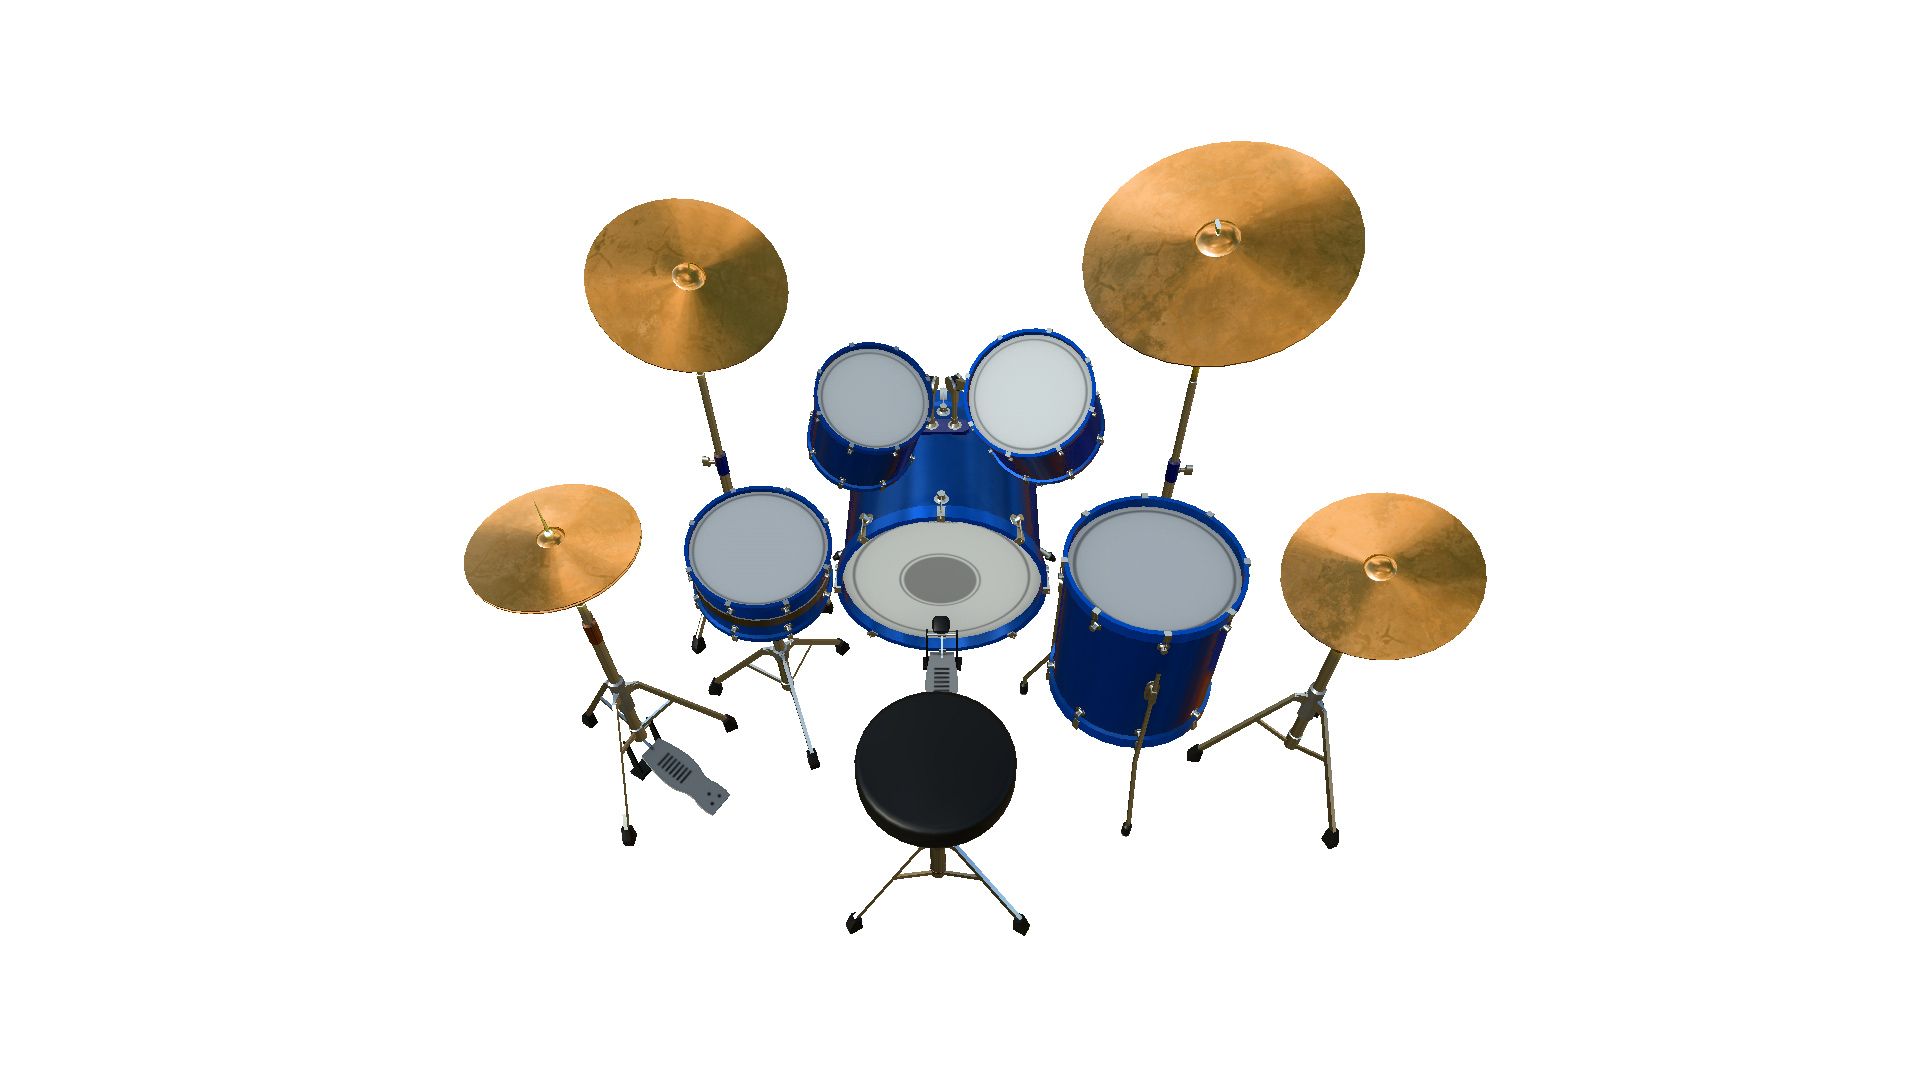
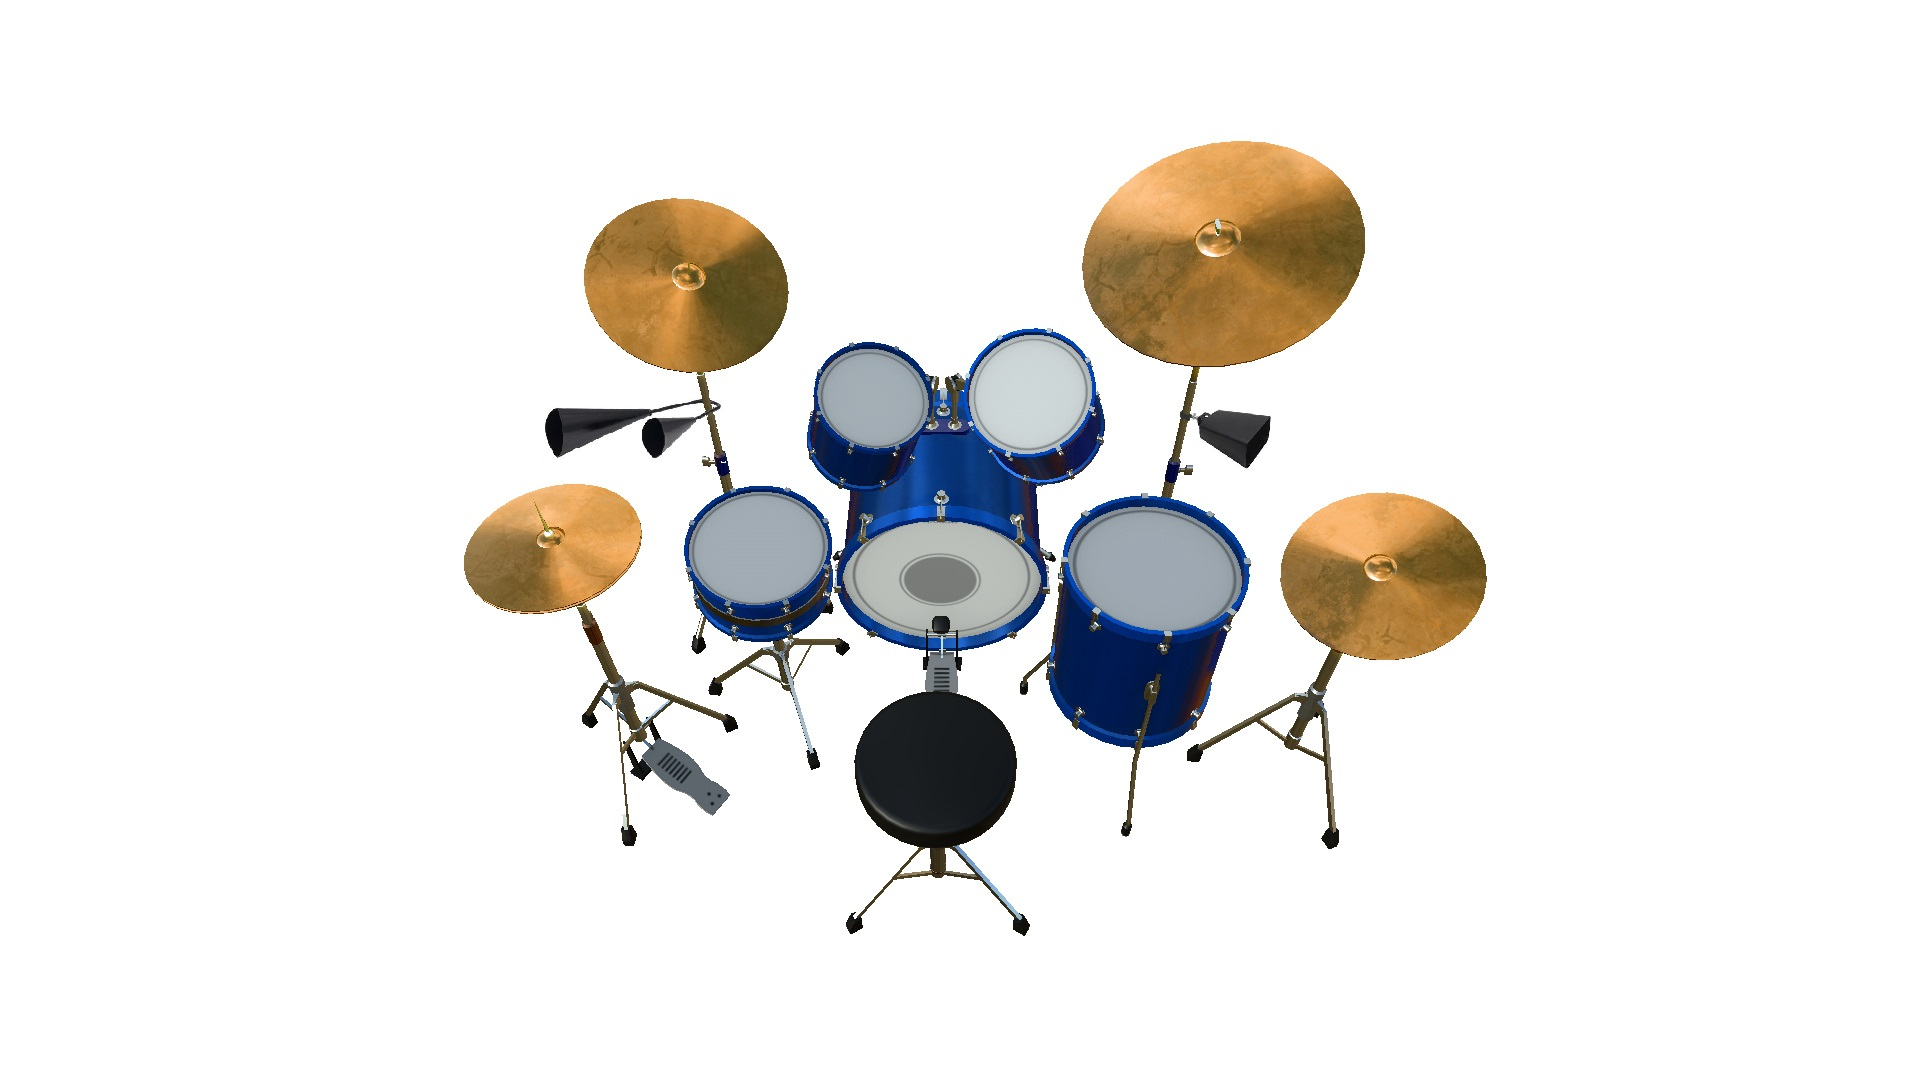
added agogo bells and cowbell to drum machine tab

diff --git a/src/components/DrumMachine.jsx b/src/components/DrumMachine.jsx
@@ -64,77 +64,101 @@ function DrumMachine() {
     }
   };
 
-    // handle kick button click
-    const handleKickButtonClick = () => {
-      const kickPad = drumPads.find((p) => p.key === 'kick');
-      if (kickPad) {
-        playSound(kickPad.key, kickPad.label);
-      }
-    };
-  
-    // handle high-hat button click
-    const handleHighHatButtonClick = () => {
-      const highHatPad = drumPads.find((p) => p.key === 'high-hat (closed)');
-      if (highHatPad) {
-        playSound(highHatPad.key, highHatPad.label);
-      }
-    };
+  // handle kick button click
+  const handleKickButtonClick = () => {
+    const kickPad = drumPads.find((p) => p.key === 'kick');
+    if (kickPad) {
+      playSound(kickPad.key, kickPad.label);
+    }
+  };
 
-        // handle crash button click
-        const handleCrashButtonClick = () => {
-          const crashPad = drumPads.find((p) => p.key === 'crash 2 (high)');
-          if (crashPad) {
-            playSound(crashPad.key, crashPad.label);
-          }
-        };
+  // handle high-hat button click
+  const handleHighHatButtonClick = () => {
+    const highHatPad = drumPads.find((p) => p.key === 'high-hat (closed)');
+    if (highHatPad) {
+      playSound(highHatPad.key, highHatPad.label);
+    }
+  };
 
-                // handle crash button click
-                const handleCrash2ButtonClick = () => {
-                  const crash2Pad = drumPads.find((p) => p.key === 'crash 1');
-                  if (crash2Pad) {
-                    playSound(crash2Pad.key, crash2Pad.label);
-                  }
-                };
+  // handle crash button click
+  const handleCrashButtonClick = () => {
+    const crashPad = drumPads.find((p) => p.key === 'crash 2 (high)');
+    if (crashPad) {
+      playSound(crashPad.key, crashPad.label);
+    }
+  };
 
-                // handle crash button click
-                const handleRideButtonClick = () => {
-                  const ridePad = drumPads.find((p) => p.key === 'ride edge');
-                  if (ridePad) {
-                    playSound(ridePad.key, ridePad.label);
-                  }
-                };
+  // handle crash2 button click
+  const handleCrash2ButtonClick = () => {
+    const crash2Pad = drumPads.find((p) => p.key === 'crash 1');
+    if (crash2Pad) {
+      playSound(crash2Pad.key, crash2Pad.label);
+    }
+  };
 
-                        // handle crash button click
-        const handleHighHatPedalButtonClick = () => {
-          const highHatPedalPad = drumPads.find((p) => p.key === 'high-hat pedal');
-          if (highHatPedalPad) {
-            playSound(highHatPedalPad.key, highHatPedalPad.label);
-          }
-        };
+  // handle ride button click
+  const handleRideButtonClick = () => {
+    const ridePad = drumPads.find((p) => p.key === 'ride edge');
+    if (ridePad) {
+      playSound(ridePad.key, ridePad.label);
+    }
+  };
 
-                // handle crash button click
-                const handleHighButtonClick = () => {
-                  const highPad = drumPads.find((p) => p.key === 'high tom 2');
-                  if (highPad) {
-                    playSound(highPad.key, highPad.label);
-                  }
-                };
+  // handle hh pedal button click
+  const handleHighHatPedalButtonClick = () => {
+    const highHatPedalPad = drumPads.find((p) => p.key === 'high-hat pedal');
+    if (highHatPedalPad) {
+      playSound(highHatPedalPad.key, highHatPedalPad.label);
+    }
+  };
 
-                        // handle crash button click
-        const handleMedButtonClick = () => {
-          const medPad = drumPads.find((p) => p.key === 'low tom');
-          if (medPad) {
-            playSound(medPad.key, medPad.label);
-          }
-        };
+  // handle high tom button click
+  const handleHighButtonClick = () => {
+    const highPad = drumPads.find((p) => p.key === 'high tom 2');
+    if (highPad) {
+      playSound(highPad.key, highPad.label);
+    }
+  };
 
-                // handle crash button click
-                const handleFloorButtonClick = () => {
-                  const floorPad = drumPads.find((p) => p.key === 'floor tom 1');
-                  if (floorPad) {
-                    playSound(floorPad.key, floorPad.label);
-                  }
-                };
+  // handle med tom button click
+  const handleMedButtonClick = () => {
+    const medPad = drumPads.find((p) => p.key === 'low tom');
+    if (medPad) {
+      playSound(medPad.key, medPad.label);
+    }
+  };
+
+  // handle floor button click
+  const handleFloorButtonClick = () => {
+    const floorPad = drumPads.find((p) => p.key === 'floor tom 1');
+    if (floorPad) {
+      playSound(floorPad.key, floorPad.label);
+    }
+  };
+
+  // handle agogo button click
+  const handleAgogo1ButtonClick = () => {
+    const floorPad = drumPads.find((p) => p.key === 'agogo High');
+    if (floorPad) {
+      playSound(floorPad.key, floorPad.label);
+    }
+  };
+
+  // handle agogo2 button click
+  const handleAgogo2ButtonClick = () => {
+    const floorPad = drumPads.find((p) => p.key === 'agogo Low');
+    if (floorPad) {
+      playSound(floorPad.key, floorPad.label);
+    }
+  };
+
+  // handle agogo2 button click
+  const handleCowbellButtonClick = () => {
+    const floorPad = drumPads.find((p) => p.key === 'cowbell');
+    if (floorPad) {
+      playSound(floorPad.key, floorPad.label);
+    }
+  };
 
   return (
     <div>
@@ -146,12 +170,16 @@ function DrumMachine() {
         <button className="hihat-btn" onClick={handleHighHatButtonClick}></button>
         <button className="crash-btn" onClick={handleCrashButtonClick}></button>
         <button className="crash2-btn" onClick={handleCrash2ButtonClick}></button>
-       <button className="ride-btn" onClick={handleRideButtonClick}></button>
+        <button className="ride-btn" onClick={handleRideButtonClick}></button>
         <button className="hihat-pedal-btn" onClick={handleHighHatPedalButtonClick}></button>
         <button className="high-tom-btn" onClick={handleHighButtonClick}></button>
         <button className="med-tom-btn" onClick={handleMedButtonClick}></button>
         <button className="floor-tom-btn" onClick={handleFloorButtonClick}></button>
- 
+
+        <button className="agogo1-btn" onClick={handleAgogo1ButtonClick}></button>
+        <button className="agogo2-btn" onClick={handleAgogo2ButtonClick}></button>
+        <button className="cowbell-btn" onClick={handleCowbellButtonClick}></button>
+
       </div>
       <div className="drum-machine" id="drum-machine">
         <div className="display" id="display">{display}</div>

diff --git a/src/drum-machine.css b/src/drum-machine.css
@@ -65,7 +65,10 @@
 .hihat-pedal-btn,
 .high-tom-btn,
 .med-tom-btn,
-.floor-tom-btn {
+.floor-tom-btn,
+.agogo1-btn,
+.agogo2-btn,
+.cowbell-btn {
   position: absolute;
   background-color: transparent;
   border-radius: 50%;
@@ -90,8 +93,6 @@
   height: 12vw;
   padding: 25px 25px;
   border: solid 2px rgb(234, 0, 255) !important;
-  border-radius: 50%;
-  cursor: pointer;
   font-size: 16px;
   z-index: 3;
 }
@@ -103,8 +104,6 @@
   height: 5.5vw;
   padding: 25px 25px;
   border: solid 2px rgb(255, 17, 0) !important;
-  border-radius: 50%;
-  cursor: pointer;
   font-size: 16px;
   z-index: 4;
 }
@@ -116,8 +115,6 @@
   height: 10vw;
   padding: 25px 25px;
   border: solid 2px rgb(0, 255, 234) !important;
-  border-radius: 50%;
-  cursor: pointer;
   font-size: 16px;
   z-index: 11;
 }
@@ -129,8 +126,6 @@
   height: 8vw;
   padding: 25px 25px;
   border: solid 2px rgb(2, 53, 49) !important;
-  border-radius: 50%;
-  cursor: pointer;
   font-size: 16px;
   z-index: 5;
 }
@@ -142,8 +137,6 @@
   height: 12vw;
   padding: 25px 25px;
   border: solid 2px rgb(4, 0, 255) !important;
-  border-radius: 50%;
-  cursor: pointer;
   font-size: 16px;
   z-index: 6;
 }
@@ -155,8 +148,6 @@
   height: 3vh;
   padding: 25px 25px;
   border: solid 2px rgb(255, 153, 0) !important;
-  border-radius: 50%;
-  cursor: pointer;
   font-size: 16px;
   z-index: 7;
 }
@@ -168,8 +159,6 @@
   height: 6vw;
   padding: 25px 25px;
   border: solid 2px rgb(12, 78, 29) !important;
-  border-radius: 50%;
-  cursor: pointer;
   font-size: 16px;
   z-index: 8;
 }
@@ -181,8 +170,6 @@
   height: 6vw;
   padding: 25px 25px;
   border: solid 2px rgb(99, 91, 100) !important;
-  border-radius: 50%;
-  cursor: pointer;
   font-size: 16px;
   z-index: 9;
 }
@@ -194,8 +181,39 @@
   height: 9vw;
   padding: 25px 25px;
   border: solid 2px rgb(255, 238, 0) !important;
-  border-radius: 50%;
-  cursor: pointer;
+  font-size: 16px;
+  z-index: 10;
+}
+
+.agogo1-btn {
+  top: 37%;
+  left: 32%;
+  width: 3vw;
+  height: 3vw;
+  padding: 25px 25px;
+  border: solid 2px rgb(255, 238, 0) !important;
+  font-size: 16px;
+  z-index: 10;
+}
+
+.agogo2-btn {
+  top: 36%;
+  left: 27%;
+  width: 6vw;
+  height: 3vh;
+  padding: 25px 25px;
+  border: solid 2px rgb(255, 17, 0) !important;
+  font-size: 16px;
+  z-index: 10;
+}
+
+.cowbell-btn {
+  top: 35%;
+  left: 62%;
+  width: 5vw;
+  height: 5vw;
+  padding: 25px 25px;
+  border: solid 2px rgb(9, 255, 0) !important;
   font-size: 16px;
   z-index: 10;
 }
